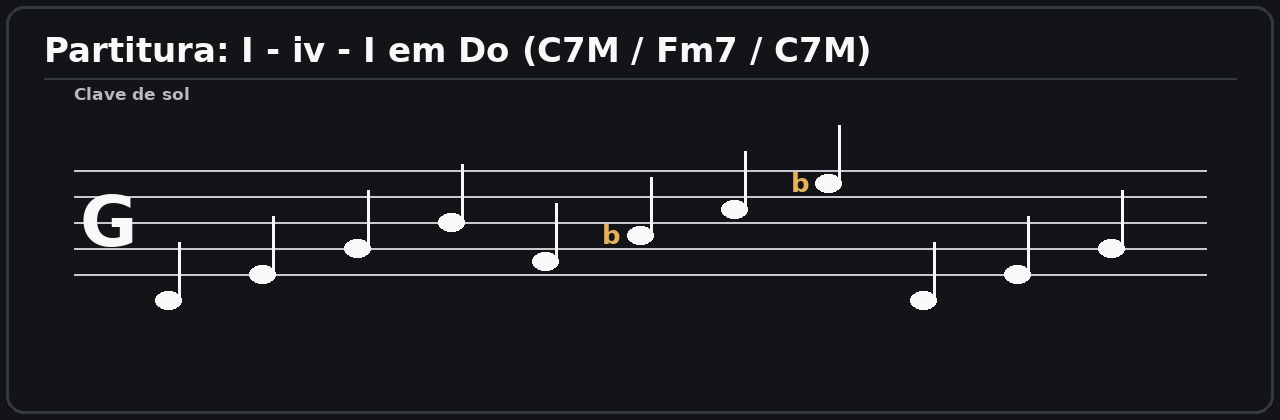
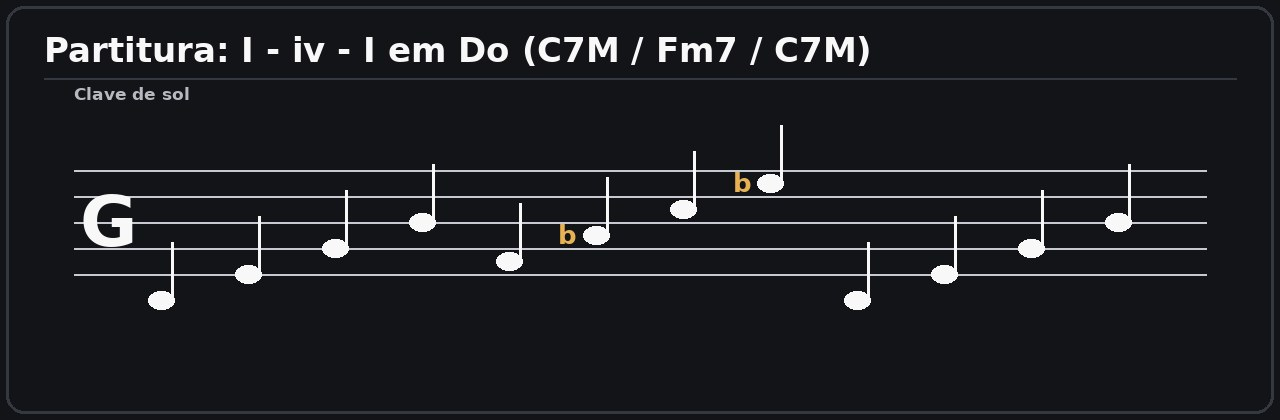
fix(modulo-6): corrige achados remanescentes da rodada 2
- R2-1 [Músico] Topic6E: lídio aumentado completo (E F# G# A# C C# D# E);
  faltava o 6º grau (C#), o que criava uma 2ª aumentada que o modo não tem.
- R2-2 [QA] tests/TestMain.cpp: asserção de escala agora exige completude —
  todo grau da escala nomeada tem de estar presente nas notas tocadas.
  Regressão verificada: reintroduzir o defeito R2-1 reprova o teste.
- R2-3 [PO] m6_partitura_subdominante fecha em C7M (C E G B); partitura,
  legenda e imagem (tools/make_diagrams.py, .jpg regerado) alinhados.
- R2-4 [PO] AGENTS.md: contagem de checagens corrigida (rodada 1: 1790;
  rodada 2: 1827).

Suíte em 1827/1827; app e testes compilam sem avisos novos.

diff --git a/tests/TestMain.cpp b/tests/TestMain.cpp
@@ -1394,6 +1394,17 @@ void testModule6()
                     check (inScale,
                            juce::String ("topic ") + topic.id + " plays the scale named in its caption ("
                                + scale->first + ")");
+
+                    // Completeness (QA): the caption names the whole scale, so the
+                    // example must sound every degree of it — an example that
+                    // omits a degree (or, as a side effect, skips a step) is not
+                    // the scale the caption declares.
+                    bool complete = true;
+                    for (const int pc : allowed)
+                        complete = complete && played.count (pc) > 0;
+                    check (complete,
+                           juce::String ("topic ") + topic.id + " plays every degree of the scale named in its caption ("
+                               + scale->first + ")");
                 }
             }
         }

diff --git a/Source/Course/Content/Topic6G.cpp b/Source/Course/Content/Topic6G.cpp
@@ -46,7 +46,7 @@ std::vector<ContentItem> topic6G()
         b ("O iv também prepara o V7: iv → V7 → i é a cadência menor por excelência."),
         aud ({ "C4", "E4", "G4", "B4", "F4", "A4", "C5", "E5", "F4", "Ab4", "C5", "Eb5" },
              "I → IV → iv em Dó: C7M, F7M, Fm7 — o subdominante menor escurecendo a harmonia."),
-        part ("m6_partitura_subdominante", { "C4", "E4", "G4", "B4", "F4", "Ab4", "C5", "Eb5", "C4", "E4", "G4" },
+        part ("m6_partitura_subdominante", { "C4", "E4", "G4", "B4", "F4", "Ab4", "C5", "Eb5", "C4", "E4", "G4", "B4" },
               "Partitura de I - iv - I em Dó (C7M / Fm7 / C7M). Ouça o efeito do subdominante menor."),
 
         h ("O ii meio-diminuto"),

diff --git a/tools/make_diagrams.py b/tools/make_diagrams.py
@@ -1150,7 +1150,8 @@ def d_m6_partitura_subdominante():
     return _score_image("subdominante", [("C", 4, None), ("E", 4, None), ("G", 4, None),
                                          ("B", 4, None), ("F", 4, None), ("A", 4, "b"),
                                          ("C", 5, None), ("E", 5, "b"),
-                                         ("C", 4, None), ("E", 4, None), ("G", 4, None)],
+                                         ("C", 4, None), ("E", 4, None), ("G", 4, None),
+                                         ("B", 4, None)],
                         "Partitura: I - iv - I em Do (C7M / Fm7 / C7M)")
 
 

diff --git a/Source/Course/Content/Topic6E.cpp b/Source/Course/Content/Topic6E.cpp
@@ -45,7 +45,7 @@ std::vector<ContentItem> topic6E()
         b ("Fórmula: 1 2 3 #4 #5 6 7."),
         b ("Som: flutuante, etéreo, com quinta aumentada."),
         b ("Uso: sobre acordes maj7(#5)."),
-        aud ({ "E4", "F#4", "G#4", "A#4", "C5", "D#5", "E5" },
+        aud ({ "E4", "F#4", "G#4", "A#4", "C5", "C#5", "D#5", "E5" },
              "Lídio aumentado a partir de Mi: som etéreo, com a quinta aumentada."),
 
         h ("Modo 4 — lídio dominante (1 2 3 #4 5 6 b7)"),

diff --git a/AGENTS.md b/AGENTS.md
@@ -355,10 +355,11 @@ Uma entrega só é "pronta" quando:
 | 2026-11-14 | architect + developer + designer | **Pastas de busca de plugins VST3 configuráveis (REQ-024, ADR 0007, pedido do cliente: "estilo Reaper")**: novo `Source/Audio/PluginSearchPaths.*` (lógica pura: normaliza, recusa vazio/duplicata, cap de 32, serializa, resolve só pastas existentes) e janela `Source/UI/PluginPathsComponent.*` com grid de duas colunas (caminho | botão de seleção), aberta pelo botão "Pastas…" ao lado da tabela de plugins; `PluginHost` soma as pastas do usuário aos locais padrão do VST3 no scan e persiste em `vst3SearchPaths` com flush imediato, podando do cache os plugins fora das pastas (por descendência, `isAChildOf`); corrigida a iteração de `juce::FileSearchPath` (não é iterável — `getNumPaths()`/`getReference(i)`) | Usuário instala VST3 fora do padrão sem mexer no sistema; sem pasta configurada o comportamento é o de antes; suíte em **356 checagens verdes** |
 | 2026-11-16 | architect + developer + data-engineer + designer | **Dois bugs do cliente: progresso perdido ao fechar e tópico de outro módulo sem exercícios.** (1) *Progresso perdido:* `ProgressStore`, `TuningSettings` e `PluginHost` abriam **três `PropertiesFile` sobre o mesmo `CursoMusica.settings`**; cada `save` reescreve o mapa inteiro, então a última instância a gravar (o `PluginHost`, no shutdown) apagava as chaves que não tinha carregado — o progresso entre elas. Reproduzido em teste. Correção: instância única compartilhada `Source/Data/AppSettings.*` (referência, não `unique_ptr`), consumida pelos três. (2) *Tópico sem exercícios:* `ModuleComponent::selectTopic`/`showModule` chamavam `PracticePanel::setTopicFilter` **sem antes apontar o painel para o módulo clicado**, então o filtro corria sobre o módulo anterior (o 2 é *placeholder*, sem exercícios) e a lista saía vazia; novo `PracticePanel::setModuleAndTopic(module, lessonId)` fixa módulo+tópico juntos e a filtragem virou a função pura `Course/ExerciseFilter.h` (testável). Bônus do mesmo pedido: o app **não tinha como configurar o banco** (só `PGHOST` do ambiente, que um app aberto pelo menu Iniciar não herda), então o schema `curso-musica` nunca era criado — nova janela **Configurações → Banco de dados…** (`Source/UI/DatabaseSettingsComponent.*`) grava host/porta/usuário/banco/schema no settings (**senha nunca**, vem de `PGPASSWORD`) e tem **Testar conexão**; `PostgresConfig::fromSettings()` passa a ter precedência sobre o ambiente | Progresso sobrevive ao fechamento, tópico lista os exercícios certos e o aluno liga o espelhamento pela UI; suíte em **377 checagens verdes** (359 offline) |
 | 2026-11-16 | orquestrador + musician + pm + po + tech-lead + architect + developer + qa + security-engineer + set | **Pipeline de módulos (Etapas) e painel de revisão.** Criados três sub-agentes: `module-author` (transforma uma Etapa de `docs/MUSIC.md` em módulo completo, no padrão do Módulo 2 — teoria ≥5 páginas/tópico, imagens, áudios, partituras com áudio, 3–5 exercícios/tópico, exercícios tocados no instrumento reconhecidos pelo app), `module-reviewer` (painel: Músico, PM, PO, Tech Lead, Arquiteto, Tech Lead, Software Engineers, Tech Lead, QA, Security, SET; qualquer problema volta ao autor e o painel **reinicia do começo**) e `release-reviewer` (revisão final cross-módulo: Arquiteto, Tech Lead, Software Engineers, Tech Lead; merge para `main` + instalador de teste). Um módulo por branch/PR; nenhum módulo aceito sem painel verde na mesma rodada; merge só por PR, sem reescrever histórico, backup antes de todo push (§11) | Todo o curso (Etapas 2–10) passa a ser produzido e revisado pelo mesmo pipeline, com qualidade e padrão verificáveis |
+| 2026-11-16 | mc-modulo-6 (autor) + musician + qa | **Correção dos achados da rodada 2 do painel do Módulo 6 (PR #18)**. Músico/QA/PO reprovaram: (R2-1) o exemplo do lídio aumentado (`Topic6E`) trocara `D`→`D#` mas continuava incompleto — faltava o 6º grau (`C#`), criando uma 2ª aumentada que o modo não tem; (R2-2) a asserção de escala só provava `tocado ⊆ escala`, então um exemplo que omite um grau passava verde; (R2-3) a partitura `m6_partitura_subdominante` fechava numa tríade de Dó, mas a legenda nomeia `C7M`; (R2-4) a contagem de checagens em `AGENTS.md` estava errada. Correções: lídio aumentado completo (`E F# G# A# C C# D# E`), asserção de **completude da escala** (todo grau da escala nomeada deve estar presente nas notas tocadas — regressão verificada: reprova o defeito R2-1), partitura e diagrama `m6_partitura_subdominante` fechando em **C7M** (`C E G B`, `tools/make_diagrams.py` + `.jpg` regerados) e contagem corrigida para **1827**. Suíte em **1827 checagens verdes**; app e testes compilam sem avisos novos | Fecha os 4 achados da rodada 2; o teste passa a provar que o exemplo toca a escala inteira que a legenda declara |
 | 2026-11-16 | musician + developer + architect + qa + set | **Módulo 2 (Etapa 2 — Teoria dos intervalos e percepção musical) implementado** como referência do padrão: `Source/Course/Intervals.*` (teoria pura de intervalos), `Source/Audio/TonePlayer.*` (áudio de exemplos, RT-safe, REQ-004), `ContentKind::audio`/`score` no modelo e na UI, `Exercise::interval` + `Exercise::usesGrid` e `evaluateIntervals` (o app reconhece as notas tocadas e confere a distância em semitons, em qualquer posição do braço); 8 tópicos (A–H), cada um com ≥5 páginas, imagens, tabelas, áudios e partitura com áudio; 3–5 exercícios por tópico (EX-2.*), gate `C–F–G–C` a 64 BPM; suíte em **950 checagens verdes** | Módulo 2 jogável e auditável; serve de gabarito para as Etapas seguintes |
 | 2026-11-16 | mc-modulo-6 (autor) + developer + musician + architect + qa | **Módulo 6 (Etapa 6 — Escalas menores e campos harmônicos) implementado** na branch `feat/modulo-6-escalas-menores-e-campos-harmonicos`, seguindo o padrão do Módulo 2: nove tópicos A–I (`Source/Course/Content/Topic6A.cpp`..`Topic6I.cpp`), cada um com ≥5 páginas (`content::minTopicChars` = 9000 chars) de explicação, imagem e tabela, e áudios; o módulo tem partituras com o seu áudio (todo `part()` leva notas). Nível 3, BPM meta 80, `on_grid_ratio` 0,80 (MUSIC.md, reaproveitados do placeholder). `makeModule6()` registra 34 exercícios `EX-6.<tópico>.<n>` (3–5 por tópico, misturando questionário e exercício tocado reconhecido pelo app via `intervalExercise`/`chordPitchClasses`/`chordProgression`) + o gate `GATE-6` (cadência menor ii–V–i: Bm7(b5)–E7–Am7–Am7, na grade); pattern `PTN-M-3rds` e guitarristas; cinco apostilas curadas. Novos diagramas `d_m6_*` em `tools/make_diagrams.py` (16 JPG embutidos). Os `Topic6*.cpp` foram adicionados aos **dois** alvos do `CMakeLists.txt` (aditivo). `testModule6()` em `tests/TestMain.cpp`; a asserção antiga de "3..20 são placeholders" foi trocada por regras genéricas (números únicos, módulo implementado localizável por `findModule`) para não conflitar com as outras branches de módulo. Suíte em **1713 checagens verdes**; app e testes compilam sem avisos novos | Módulo 6 jogável e auditável; o pipeline de módulos (autor → painel `mc-rv-modulo-6`) tem a sua Etapa 6 pronta para revisão |
 | 2026-11-16 | orquestrador + musician + pm + po + tech-lead + architect + developer + qa + security-engineer + set | **16 sub-agentes por Etapa (3–10) criados.** Cada Etapa 3–10 ganhou um **autor** (`mc-modulo-<N>`) e um **revisor** (`mc-rv-modulo-<N>`), já com objetivo, conteúdos, prática, tópicos sugeridos e os dados fixados da Etapa (nível, BPM meta, `on_grid_ratio`, branch). O autor segue o padrão do Módulo 2 (teoria ≥5 páginas/tópico, imagens, áudios, partituras com áudio, 3–5 exercícios/tópico, exercícios tocados reconhecidos pelo app) numa branch própria; o revisor roda o painel completo (Músico, PM, PO, Tech Lead, Arquiteto, Tech Lead, Software Engineers, Tech Lead, QA, Security, SET) e qualquer achado devolve o item ao autor, reiniciando o painel até todos passarem. As Etapas 3–10 são construídas **em paralelo**; a asserção final de `testModule2()` ("3..20 são placeholders") passa a ser uma regra genérica para as branches não conflitarem | As Etapas 3–10 passam a ser produzidas e revisadas em paralelo pelo mesmo pipeline verificável do Módulo 2 |
-| 2026-11-16 | mc-modulo-6 (autor) + musician + qa | **Correção dos achados do painel do Módulo 6 (rodada 1, PR #18)**. Músico/PO/QA reprovaram: (1–5) exemplos de áudio incoerentes com a legenda/partitura — a partitura `m6_partitura_subdominante` mostrava `Fm7` mas o áudio tocava `F7`, o `iv` era tocado como `IV` em `Topic6G`/`Topic6H`, o `bVII` soava `Bbmaj7` em vez de `Bb7` e o lídio aumentado (`Topic6E`) trazia `D` natural em vez de `D#`; (6) soletração enarmônica (`A#`/`D#` onde o esperado é `Bb`/`Eb`); (7) `docs/MUSIC.md` sem a Etapa 6; (8) o teste provava só *presença* de áudio/partitura, não *coerência*. Correções: notas dos exemplos alinhadas à legenda e às imagens (`Fm7 = F Ab C Eb`, `Bb7`, `Ebmaj7`, lídio aumentado `D#`), soletração bemol nos contextos com bemóis, **§6.1–6.4 da Etapa 6** acrescentadas a `docs/MUSIC.md` (blocos A–I, tabela de 34 exercícios + gate, patterns/links) e nova asserção de **coerência áudio↔legenda** em `testModule6()`: todo acorde nomeado na legenda é subconjunto das notas tocadas e toda escala nomeada contém as notas tocadas (verificada por regressão — reprova o defeito original). Suíte em **1789 checagens verdes**; app e testes compilam sem avisos novos | Fecha os 8 achados do painel; o áudio passa a ser exatamente o que a legenda declara e a suíte passa a reprovar exemplo musicalmente errado |
+| 2026-11-16 | mc-modulo-6 (autor) + musician + qa | **Correção dos achados do painel do Módulo 6 (rodada 1, PR #18)**. Músico/PO/QA reprovaram: (1–5) exemplos de áudio incoerentes com a legenda/partitura — a partitura `m6_partitura_subdominante` mostrava `Fm7` mas o áudio tocava `F7`, o `iv` era tocado como `IV` em `Topic6G`/`Topic6H`, o `bVII` soava `Bbmaj7` em vez de `Bb7` e o lídio aumentado (`Topic6E`) trazia `D` natural em vez de `D#`; (6) soletração enarmônica (`A#`/`D#` onde o esperado é `Bb`/`Eb`); (7) `docs/MUSIC.md` sem a Etapa 6; (8) o teste provava só *presença* de áudio/partitura, não *coerência*. Correções: notas dos exemplos alinhadas à legenda e às imagens (`Fm7 = F Ab C Eb`, `Bb7`, `Ebmaj7`, lídio aumentado `D#`), soletração bemol nos contextos com bemóis, **§6.1–6.4 da Etapa 6** acrescentadas a `docs/MUSIC.md` (blocos A–I, tabela de 34 exercícios + gate, patterns/links) e nova asserção de **coerência áudio↔legenda** em `testModule6()`: todo acorde nomeado na legenda é subconjunto das notas tocadas e toda escala nomeada contém as notas tocadas (verificada por regressão — reprova o defeito original). Suíte em **1790 checagens verdes**; app e testes compilam sem avisos novos | Fecha os 8 achados do painel; o áudio passa a ser exatamente o que a legenda declara e a suíte passa a reprovar exemplo musicalmente errado |
 
 
 ## 8. Convenções de código
